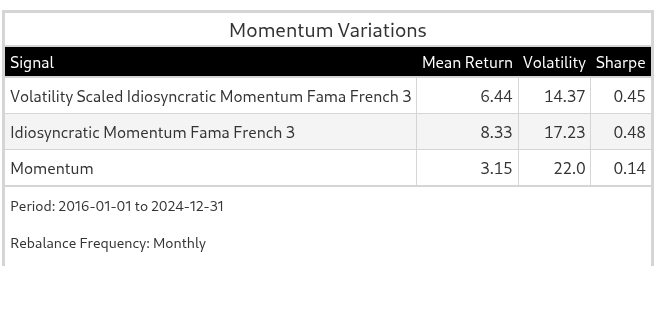
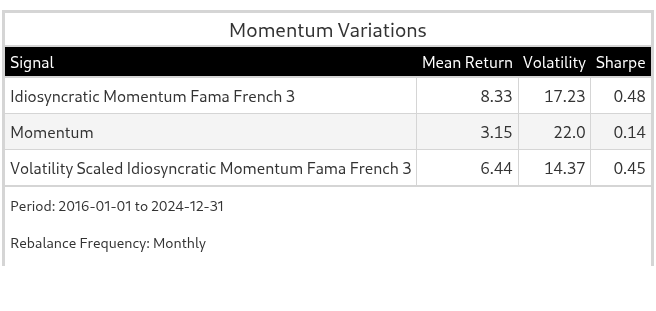
Updates.

diff --git a/research/backtest.py b/research/backtest.py
@@ -110,7 +110,6 @@ def mve_backtest(config: MVEBacktestConfig):
 def _submit_year_job(
     signal_name: str,
     year: int,
-    dataset_path: str = "alphas.parquet",
     config_path: str = "mve_backtest_cfg.yml",
     n_cpus: int = 8,
 ):
@@ -134,7 +133,7 @@ srun python -m research run-single-year-mve-backtest \\
     --config-path "{config_path}" \\
     --signal-name "{signal_name}" \\
     --year {year} \\
-    --alphas-path "{dataset_path}" \\
+    --alphas-path "{signal_name}.parquet" \\
     --output-path "{output_path}"
 """
 
@@ -178,7 +177,7 @@ def mve_backtest_parallel(config: MVEBacktestConfig):
     )
 
     print("Saving alphas temporarily...")
-    alphas.write_parquet("alphas.parquet")
+    alphas.write_parquet(f"{config.signal.name}.parquet")
 
     print("Constructing portfolios...")
     years = alphas['date'].dt.year().unique().sort().to_list()

diff --git a/research/experiments/experiment_2.py b/research/experiments/experiment_2.py
@@ -102,6 +102,7 @@ summary_table = (
     .with_columns(
         pl.col('signal').str.replace_all('_', ' ').str.to_titlecase()
     )
+    .sort('signal')
     .rename({
         'signal': 'Signal',
         'mean_return': 'Mean Return',
